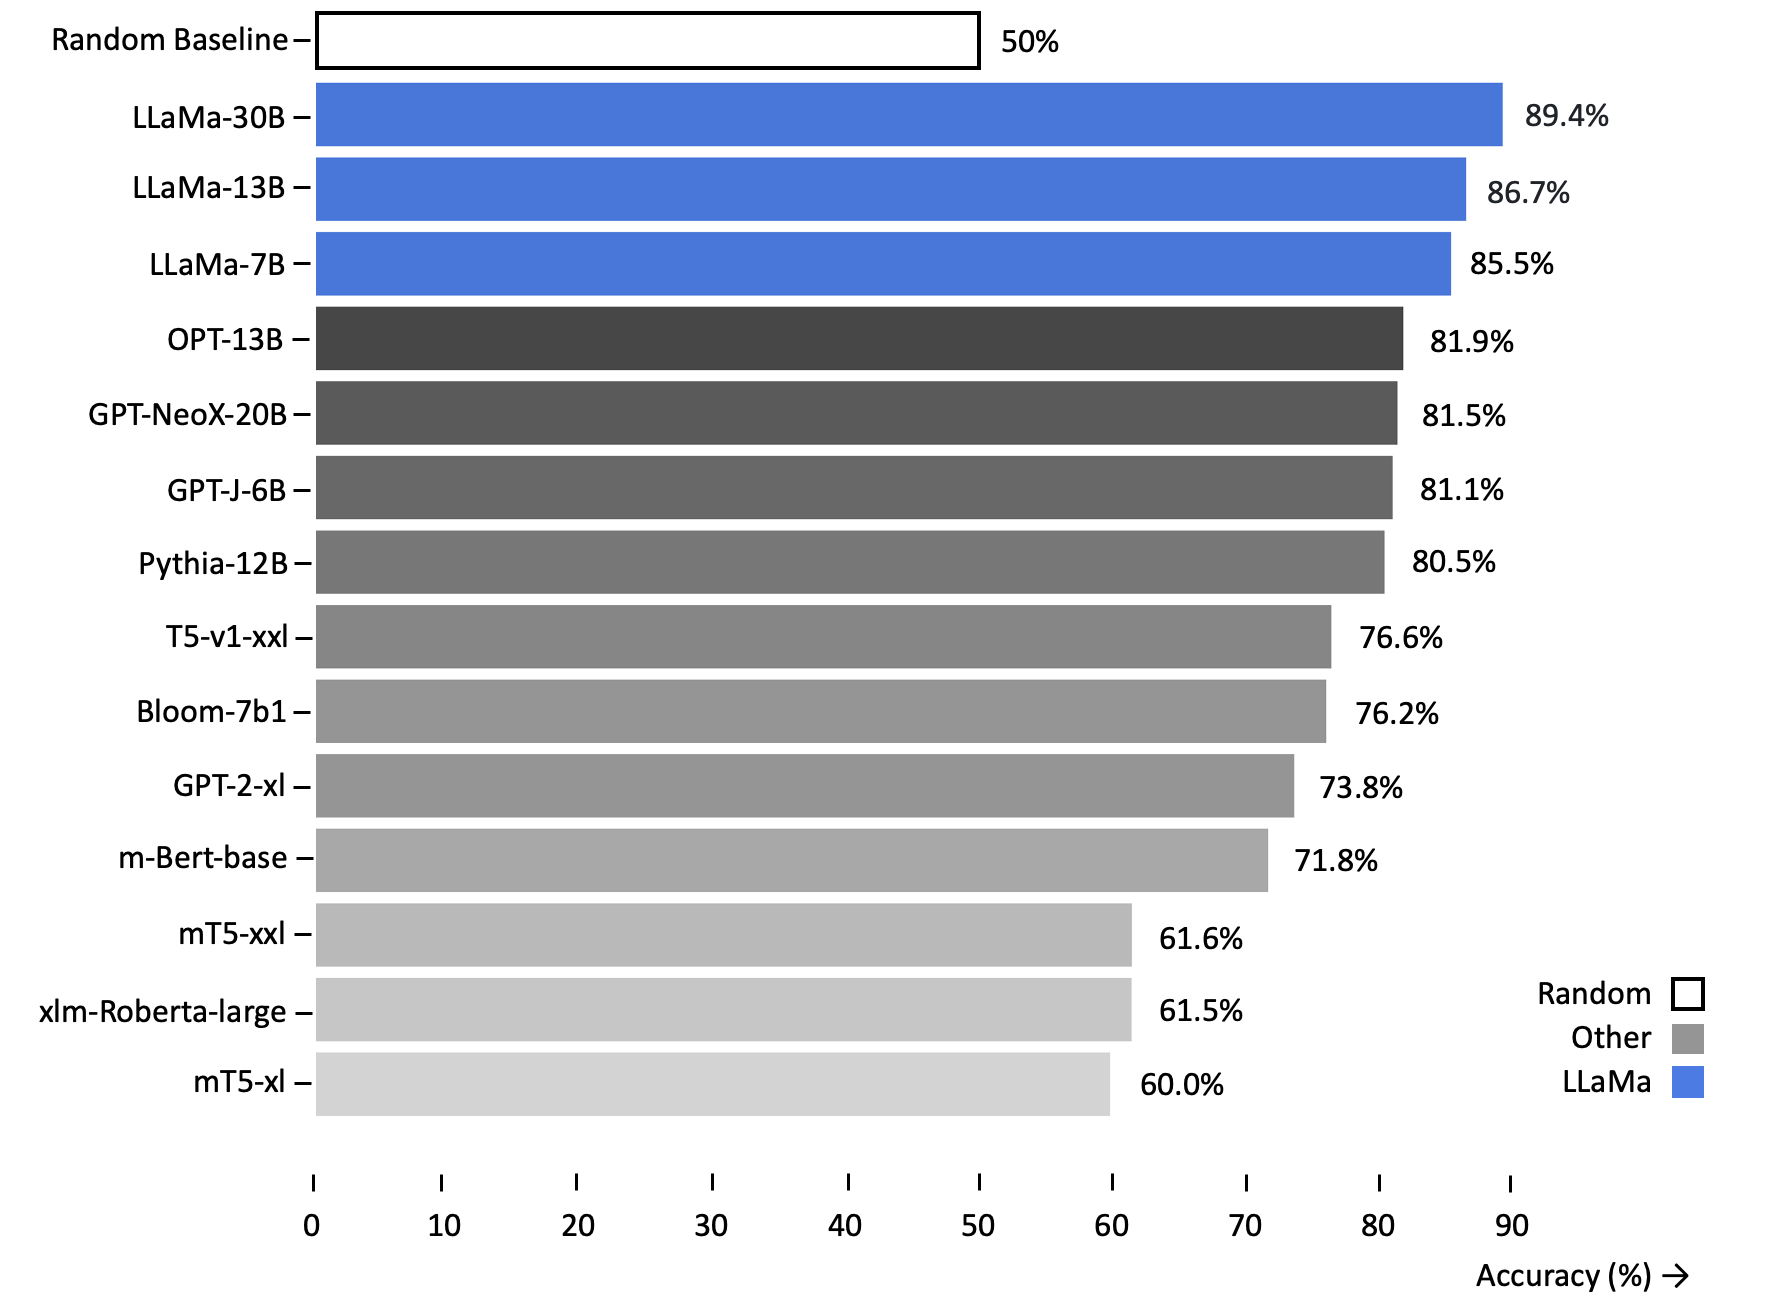
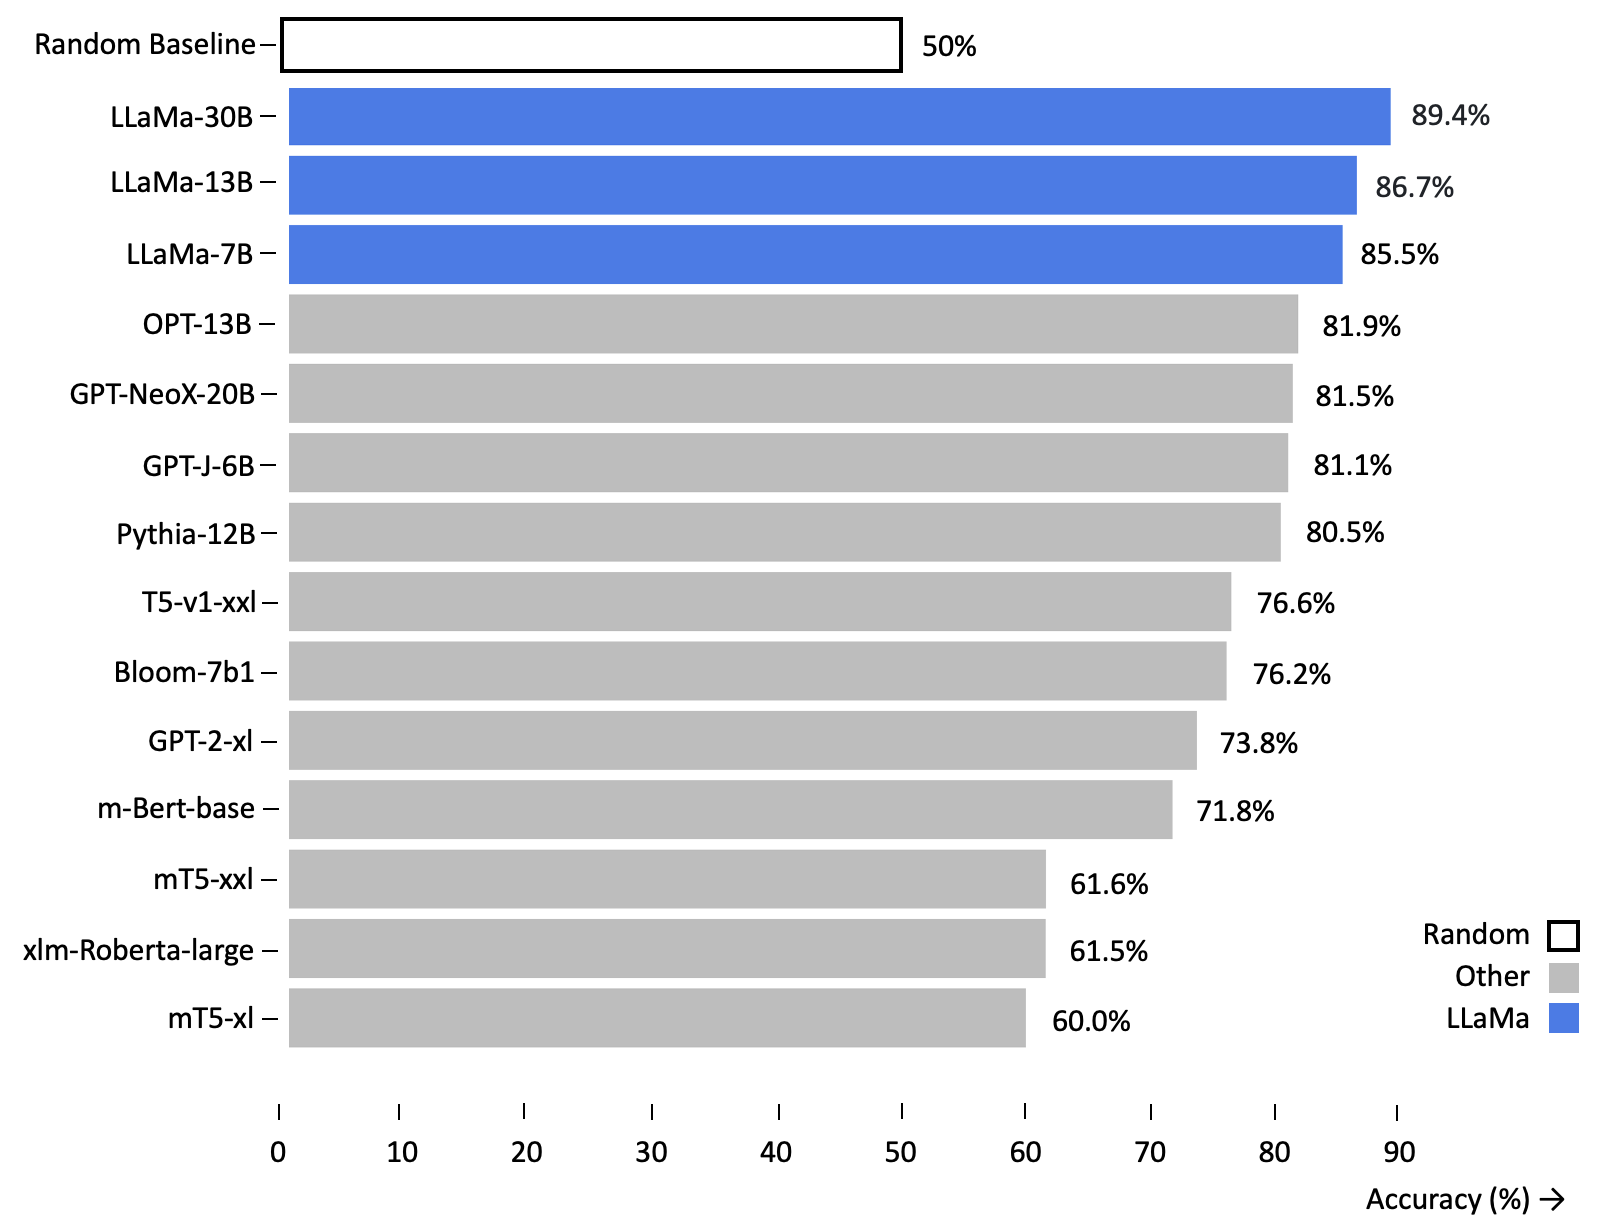
reamde updated

diff --git a/README.md b/README.md
@@ -64,11 +64,19 @@ We present [`CalibraGPT/Fact-Completion.parquet`][hf_data], a fact completion da
 
 ## Figures: Test Results 
 
-**NB**: The values in the bar plot indicate the overall percentage of fact completions adequately retrieved by the LLaMa-30b model across each language (blue), with English-only results for GPT-NeoX-20B (gray) and a Random Baseline (white) included for comparison.
+**NB**: The values in the bar plots indicate the overall percentage of fact completions adequately retrieved by the model.
 
 ### **LLaMa** fact-completion results across 20 languages. 
 
 ![LLaMa test leaderboard](notebooks/viz/assets/LLaMa_h_bar_plot_final.png)
+
+&nbsp;
+
+### **English-only** fact-completion results. 
+
+![English test leaderboard](notebooks/viz/assets/english_h_bar_plot_final.png)
+
+&nbsp;
 
 ## Authors
 
